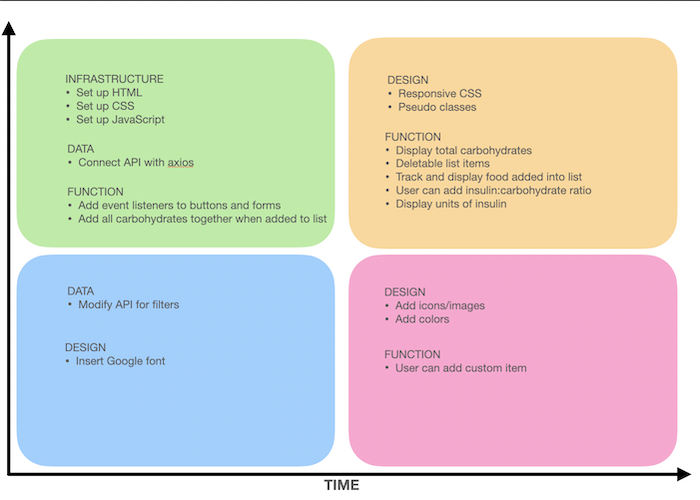
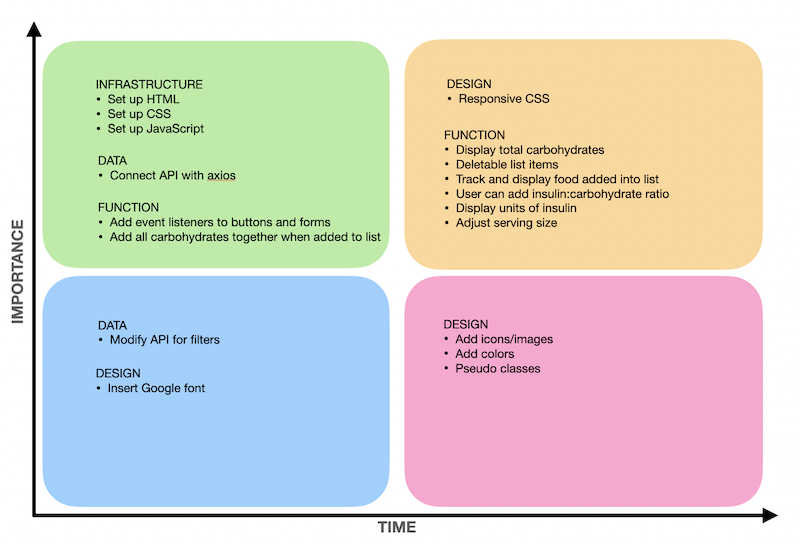
updated README

diff --git a/README.md b/README.md
@@ -8,11 +8,192 @@ To create a tool to calculate units of insulin to administer based on total carb
 
 ## API and Data Sample
 ```
-
+{  "totalHits": 4396,
+    "currentPage": 1,
+    "totalPages": 88,
+    "pageList": [
+        1,
+        2,
+        3,
+        4,
+        5,
+        6,
+        7,
+        8,
+        9,
+        10
+    ],
+    "foodSearchCriteria": {
+        "query": "pizza",
+        "generalSearchInput": "pizza",
+        "pageNumber": 1,
+        "numberOfResultsPerPage": 50,
+        "pageSize": 50,
+        "requireAllWords": false
+    },
+    "foods": [
+        {
+            "fdcId": 559593,
+            "description": "PIZZA",
+            "lowercaseDescription": "pizza",
+            "dataType": "Branded",
+            "gtinUpc": "077387206271",
+            "publishedDate": "2019-04-01",
+            "brandOwner": "FIGHT'N TOMATO PIZZA CO.",
+            "ingredients": "CRUST (ENRICHED FLOUR (WHEAT FLOUR, BARLEY MALT, NIACIN, REDUCED IRON, THIAMINE MONONITRATE, RIBOFLAVIN, FOLIC ACID), WATER, SALT, RYE FLOUR, PALM OIL, FUMARIC ACID, CONTAINS LESS THAN 2% OF DEXTROSE, SOY LECITHIN, VEGETABLE OIL (CANOLA AND/OR SOYBEAN OIL), XANTHAN GUM, YEAST, ACETIC ACID), SAUCE (WATER, TOMATO PASTE, SEASONING (SALT, SUGAR, ONION POWDER, SPICES, XANTHAN AND GUAR GUM, GARLIC POWDER, POTASSIUM SORBATE, CITRIC ACID, TRICALCIUM PHOSPHATE, SOYBEAN OIL), MODIFIED FOOD STARCH, PARMESAN CHEESE (PASTEURIZED COW'S MILK, CHEESE CULTURE, SALT AND ENZYMES), LOW MOISTURE PART SKIM MOZZARELLA CHEESE (PASTEURIZED PART SKIM MILK, CHEESE CULTURES, SALT, ENZYMES), PORK PIZZA TOPPING (PORK, WATER, TEXTURED SOY FLOUR (SOY FLOUR, SALT), CONTAINS 2% OR LESS; SALT, SPICES, HYDROLYZED SOY PROTEIN, MALTODEXTRIN, FLAVORING, PAPRIKA (COLOR), TBHQ, BHT, CITRIC ACID), PEPPERONI (PORK, BEEF, SALT, CONTAINS 2% OR LESS OF FLAVORINGS, DEXTROSE, OLEORESIN OF PAPRIKA, SMOKE FLAVORING, ASCORBIC ACID, LACTIC ACID STARTER CULTURE, SODIUM NITRITE, BHA, BHT, CITRIC ACID), HARD SALAMI (PORK, SALT, DEXTROSE, CONTAINS 2% OR LESS OF BEEF, FLAVORINGS, LACTIC ACID STARTER CULTURE, NATURAL SMOKE FLAVOR, SODIUM NITRITE, SPICES, VITAMIN C (SODIUM ASCORBATE), BHA, BHT, CITRIC ACID), BACON (CURED WITH WATER, SALT, SUGAR, SODIUM ERYTHORBATE, SODIUM NITRITE. MAY ALSO CONTAIN DEXTROSE, FLAVORING, HONEY, DEHYDRATED PORK BROTH, POTASSIUM CHLORIDE, POTASSIUM LACTATE, SMOKE FLAVORING, SODIUM DIACETATE, SODIUM PHOSPHATES)",
+            "allHighlightFields": "<b>Brand Owner</b>: FIGHT'N TOMATO <em>PIZZA</em> CO.<br/><b>Ingredients</b>:  MOZZARELLA CHEESE (PASTEURIZED PART SKIM MILK, CHEESE CULTURES, SALT, ENZYMES), PORK <em>PIZZA</em> TOPPING (PORK",
+            "score": 604.3352,
+            "foodNutrients": [
+                {
+                    "nutrientId": 1110,
+                    "nutrientName": "Vitamin D (D2 + D3), International Units",
+                    "nutrientNumber": "324",
+                    "unitName": "IU",
+                    "derivationCode": "LCCD",
+                    "derivationDescription": "Calculated from a daily value percentage per serving size measure",
+                    "value": 0.0
+                },
+                {
+                    "nutrientId": 1003,
+                    "nutrientName": "Protein",
+                    "nutrientNumber": "203",
+                    "unitName": "G",
+                    "derivationCode": "LCCS",
+                    "derivationDescription": "Calculated from value per serving size measure",
+                    "value": 10.2
+                },
+                {
+                    "nutrientId": 1004,
+                    "nutrientName": "Total lipid (fat)",
+                    "nutrientNumber": "204",
+                    "unitName": "G",
+                    "derivationCode": "LCCS",
+                    "derivationDescription": "Calculated from value per serving size measure",
+                    "value": 10.8
+                },
+                {
+                    "nutrientId": 1005,
+                    "nutrientName": "Carbohydrate, by difference",
+                    "nutrientNumber": "205",
+                    "unitName": "G",
+                    "derivationCode": "LCCS",
+                    "derivationDescription": "Calculated from value per serving size measure",
+                    "value": 28.0
+                },
+                {
+                    "nutrientId": 1008,
+                    "nutrientName": "Energy",
+                    "nutrientNumber": "208",
+                    "unitName": "KCAL",
+                    "derivationCode": "LCCS",
+                    "derivationDescription": "Calculated from value per serving size measure",
+                    "value": 242
+                },
+                {
+                    "nutrientId": 2000,
+                    "nutrientName": "Sugars, total including NLEA",
+                    "nutrientNumber": "269",
+                    "unitName": "G",
+                    "derivationCode": "LCCS",
+                    "derivationDescription": "Calculated from value per serving size measure",
+                    "value": 1.27
+                },
+                {
+                    "nutrientId": 1079,
+                    "nutrientName": "Fiber, total dietary",
+                    "nutrientNumber": "291",
+                    "unitName": "G",
+                    "derivationCode": "LCCS",
+                    "derivationDescription": "Calculated from value per serving size measure",
+                    "value": 1.9
+                },
+                {
+                    "nutrientId": 1087,
+                    "nutrientName": "Calcium, Ca",
+                    "nutrientNumber": "301",
+                    "unitName": "MG",
+                    "derivationCode": "LCCS",
+                    "derivationDescription": "Calculated from value per serving size measure",
+                    "value": 127
+                },
+                {
+                    "nutrientId": 1089,
+                    "nutrientName": "Iron, Fe",
+                    "nutrientNumber": "303",
+                    "unitName": "MG",
+                    "derivationCode": "LCCS",
+                    "derivationDescription": "Calculated from value per serving size measure",
+                    "value": 3.18
+                },
+                {
+                    "nutrientId": 1092,
+                    "nutrientName": "Potassium, K",
+                    "nutrientNumber": "306",
+                    "unitName": "MG",
+                    "derivationCode": "LCCS",
+                    "derivationDescription": "Calculated from value per serving size measure",
+                    "value": 76.0
+                },
+                {
+                    "nutrientId": 1093,
+                    "nutrientName": "Sodium, Na",
+                    "nutrientNumber": "307",
+                    "unitName": "MG",
+                    "derivationCode": "LCCS",
+                    "derivationDescription": "Calculated from value per serving size measure",
+                    "value": 669
+                },
+                {
+                    "nutrientId": 1235,
+                    "nutrientName": "Sugars, added",
+                    "nutrientNumber": "539",
+                    "unitName": "G",
+                    "derivationCode": "LCCS",
+                    "derivationDescription": "Calculated from value per serving size measure",
+                    "value": 1.3
+                },
+                {
+                    "nutrientId": 1253,
+                    "nutrientName": "Cholesterol",
+                    "nutrientNumber": "601",
+                    "unitName": "MG",
+                    "derivationCode": "LCCS",
+                    "derivationDescription": "Calculated from value per serving size measure",
+                    "value": 22.0
+                },
+                {
+                    "nutrientId": 1257,
+                    "nutrientName": "Fatty acids, total trans",
+                    "nutrientNumber": "605",
+                    "unitName": "G",
+                    "derivationCode": "LCCS",
+                    "derivationDescription": "Calculated from value per serving size measure",
+                    "value": 0.0
+                },
+                {
+                    "nutrientId": 1258,
+                    "nutrientName": "Fatty acids, total saturated",
+                    "nutrientNumber": "606",
+                    "unitName": "G",
+                    "derivationCode": "LCCS",
+                    "derivationDescription": "Calculated from value per serving size measure",
+                    "value": 5.1
+                }
+            ]
+        },
 ```
 
 ## Wireframes
-[Link to wireframe](https://www.figma.com/proto/t9LAoI0icyOHnMaj4ElcS8/Meal-Time-Insulin?node-id=0%3A3&scaling=contain)
+[Link to interactive wireframe](https://www.figma.com/proto/t9LAoI0icyOHnMaj4ElcS8/Meal-Time-Insulin?node-id=0%3A3&scaling=contain)
+#### Below are screenshots of the wireframe with description
+**Image 1:** This page includes the search bar and button. The user will be able to search a food item and results will populate after they click search. The user can then add the food item (possibly modify the serving size now or at the next point). 
+![alt text](/assets/wireframe-1.png)
+
+**Image 2:** The added food items are added a list and displayed in this frame (live). The user can modify the serving size (or from previous frame). The total carbohydrates will be sumed up and displayed. 
+![alt text](/assets/wireframe-2.png)
+
+**Image 3:** The user will see the total carbohydrate and can add in their custom insulin to carbohydrate ratio as directed from their care team. The units will display (not rounded because some patient round to the nearest half and other to the nearest whole number). A disclaimer will state the units have not been rounded. 
+![alt text](/assets/wireframe-3.png)
 
 ## MVP/Post MVP
 
@@ -31,6 +212,7 @@ To create a tool to calculate units of insulin to administer based on total carb
 * Allow users to filter food items 
 * Allow users to add blood gluocose readings
 * Allow users to save and update insulin to carbohydrate ratio
+* Allow users to choose to round their units to the nearest whole or half.
 * Use localstorage to store created meals and frequently added food items
 
 ## Priority Matrix
@@ -38,22 +220,25 @@ To create a tool to calculate units of insulin to administer based on total carb
 
 ## Timeframes
 | Component | Priority | Estimated Time (hours) | Time Invested (hours) | Actual Time (hours) |
-| ------- | :------: | :------------: | :-----------: | :---------: |
-| **INFRASTRUCTURE**: |
+| --------- | :----: | :----: | :----: | :----: |
+| **INFRASTRUCTURE:** |
 | Set up HTML, CSS, JS      | H |  3  | TBD | TBD |
-| **DATA** |
+| **DATA:** |
 | API                       | H |  5  | TBD | TBD |
 | Work with JS and DOM      | H |  4  | TBD | TBD |
 | Connect data with page    | H |  3  | TBD | TBD |
-| **DESIGN**: |
+| **DESIGN:** |
 | Responsive CSS            | H |  6  | TBD | TBD |
 | Layout                    | H |  3  | TBD | TBD |
 | Add colors/images         | L |  4  | TBD | TBD |
-| **FUNCTION**: |
+| **FUNCTION:** |
 | Functional form           | H |  4  | TBD | TBD |
 | Functional list that adds food and carbohydrates | H | 5 | TBD | TBD |
 | Functional buttons        | H |  2  | TBD | TBD | 
-| Adjust serving size       | H |  3  | TBD | TBD |
-| **X-TRA FEATURES** |
-| Custom add food and add insulin to carbohydrate ratio   | H | 4 | TBD | TBD |
-| Total                     |   | 46  | TBD | TBD | 
+| Adjust serving size       | H |  5  | TBD | TBD |
+| Add and calculate insulin to carbohydrate ratio | H | 3 | TBD | TBD |
+| **TOTAL:**                |   |**47**|**TBD**|**TBD**| 
+
+## Code Snippet
+
+## Change Log
